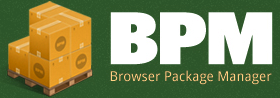
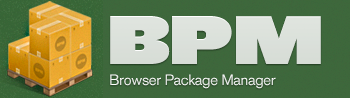
Green buttons, repaired search bar, improved styles.

diff --git a/public/stylesheets/screen.css b/public/stylesheets/screen.css
@@ -2,7 +2,7 @@ body {
   line-height: 1;
   font-size: .625em;
   background: #2E562A url("/images/background.png");
-  font-family: Arial, Helvetica, sans-serif;
+  font-family: 'Helvetica Neue', Arial, Helvetica, sans-serif; /* This should give most users (Windows users don't have Helvetica Neue) the best experience. */
 }
 
 ol, ul {
@@ -84,12 +84,12 @@ table {
 .header h1 {
   display: inline-block;
   vertical-align: middle;
-  padding-top: 3em;
+  padding-top: 2em;
 }
 
 .header h1 a {
   display: block;
-  width: 280px;
+  width: 325px;
   height: 98px;
   text-indent: -9999px;
   text-decoration: none;
@@ -910,34 +910,34 @@ table {
 
 .footer .links {
   height: 30px;
-  margin-top: 15px;
+  text-align: center;
 }
 
 .footer .links a {
   border: none;
-  text-align: center;
-  font-weight: normal;
+  font-weight: bold;
   color: #FFD283;
-  font-size: 1.5em;
-  margin-right: 10px;
-  margin-top: -15px;
+  text-shadow: rgba(0,0,0, .50) 0px 1px 1px;
+  font-size: 1.3em;
+  margin: 30px 15px 0px 15px;
 }
 
 .footer .links .sponsor {
-  float: right;
+  display: inline-block;
   font-size: 1em;
-  margin-top: -25px;
+  font-weight: normal;
+  margin-top: 15px;
   margin-bottom: 20px;
-  margin-left: 10px;
-}
-
-.footer .links #dnsimple img {
-  margin-top: 13px;
+  margin-left: 15px;
+  text-shadow: rgba(0,0,0, .25) 0px -1px 1px;
+  color: rgba(255,255,255,.65);
 }
 
 .footer .links .sponsor img {
-  padding-top: 5px;
-  display: block;
+  display: inline-block;
+  vertical-align: middle;
+  margin-left: 5px;
+  margin-bottom: 7px;
 }
 
 .footer a:hover {
